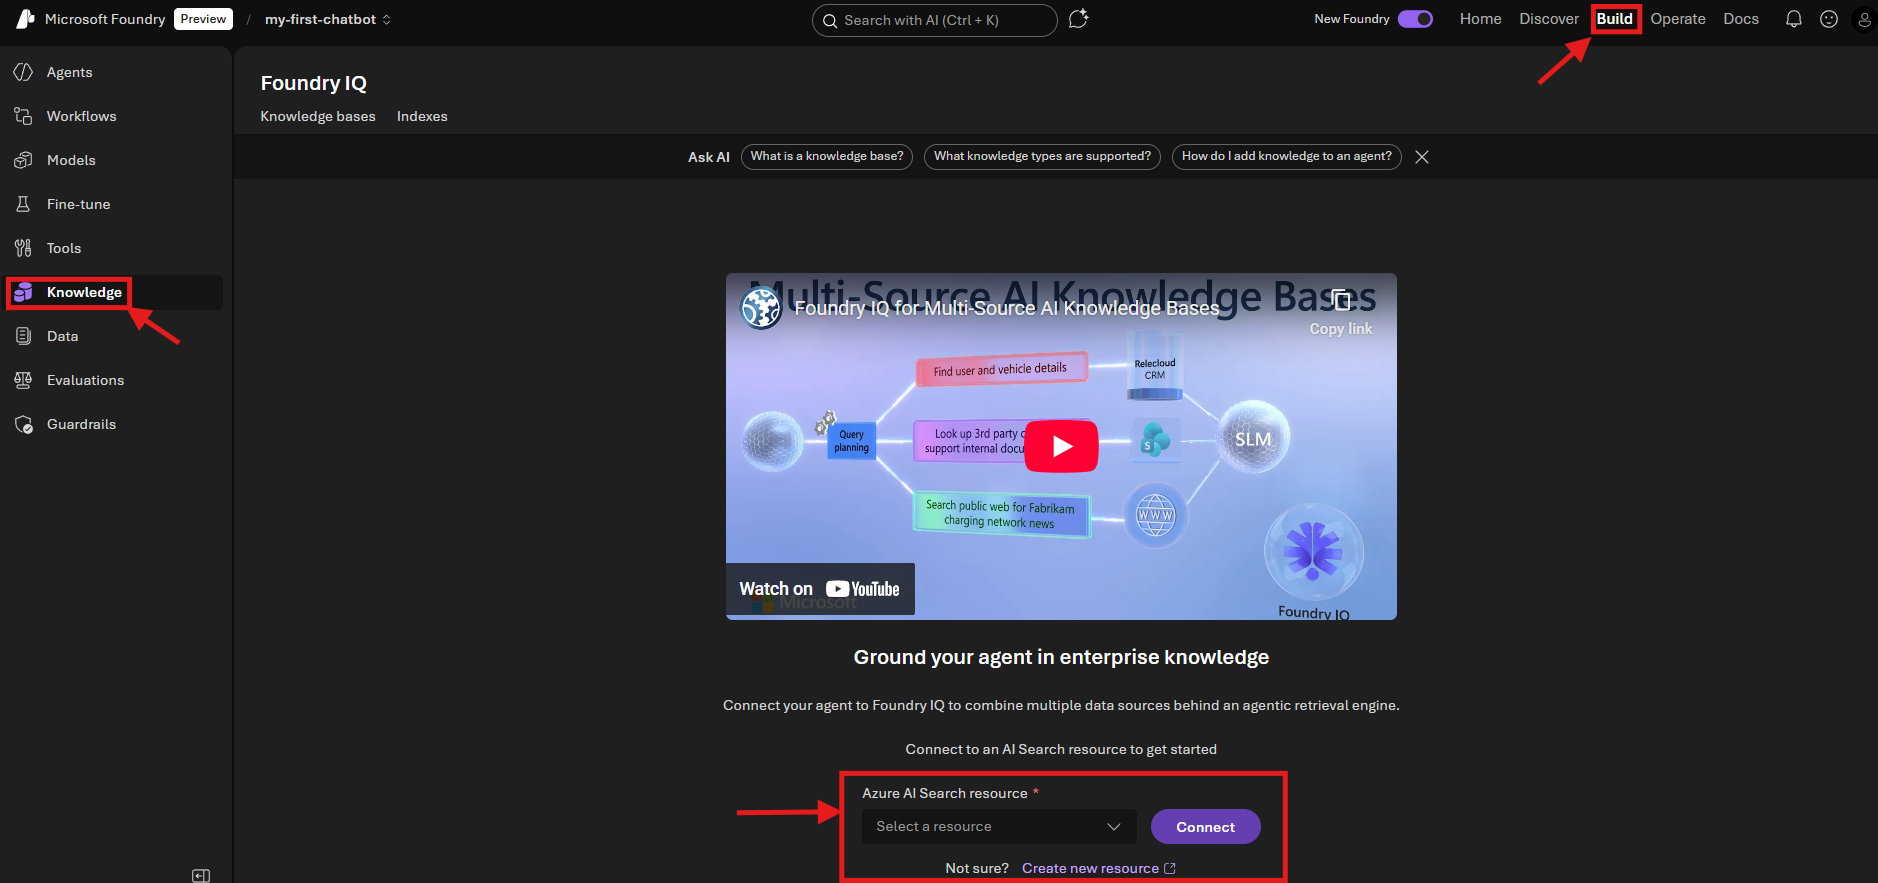
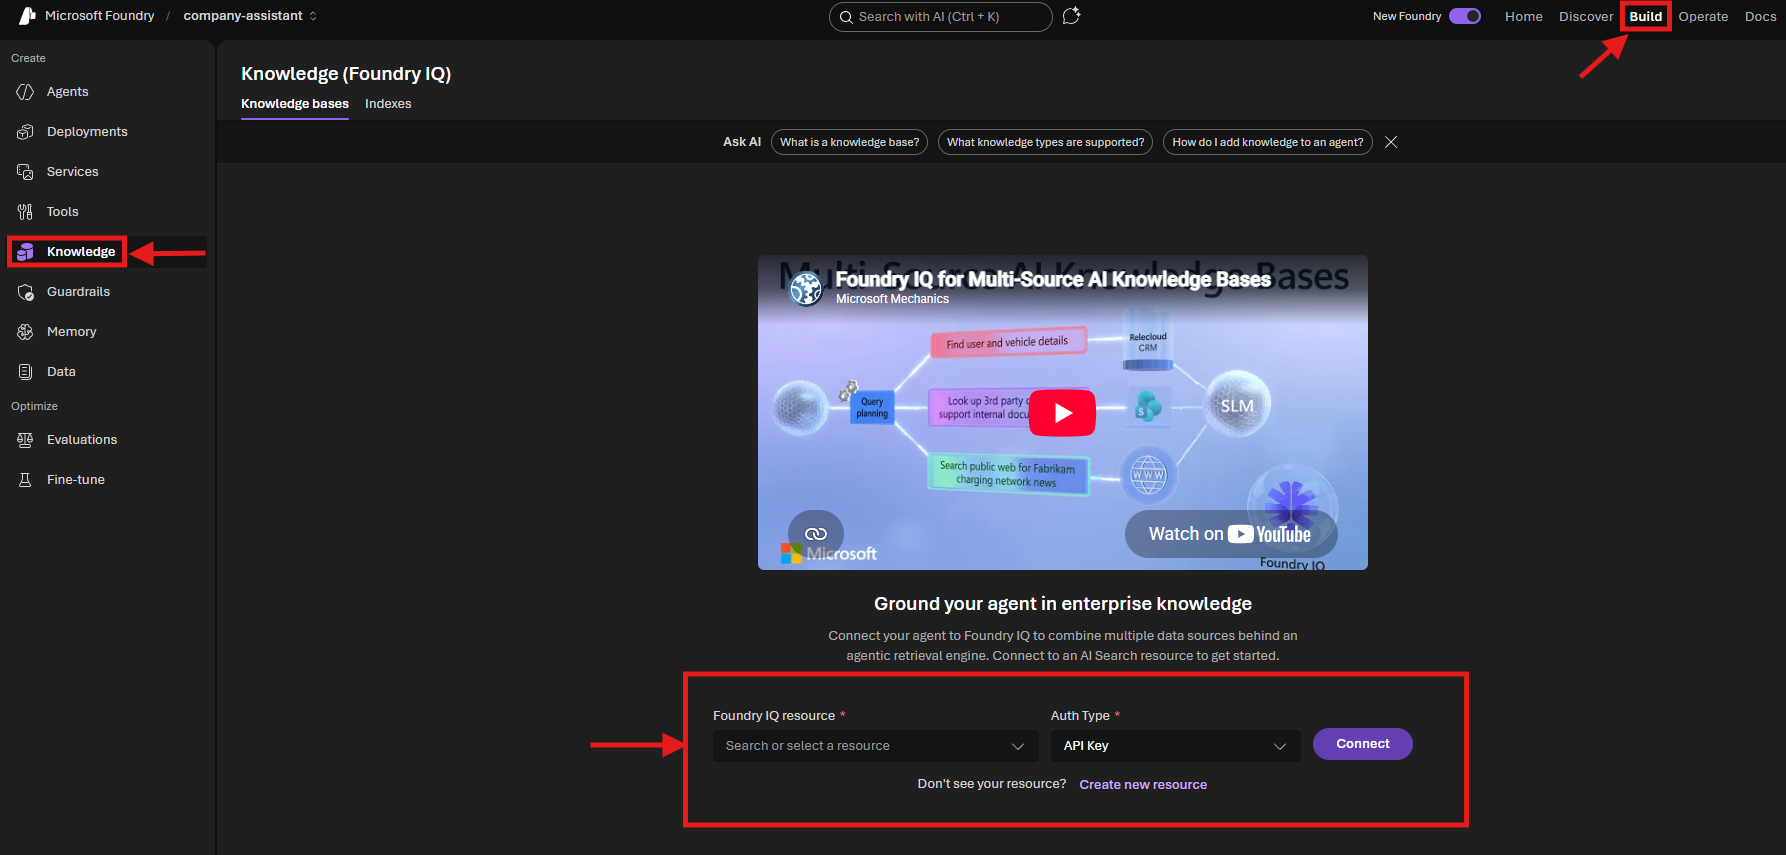
Update regions to East US, add pricing tier, clean up lab-2

diff --git a/lab-2-create-knowledge-base.md b/lab-2-create-knowledge-base.md
@@ -65,12 +65,14 @@ The first time you use Knowledge, you'll need to connect an AI Search resource:
 
 1. Click **Create new resource**
 2. In the dialog that appears:
-   - **Resource name**: Leave the auto-generated name (e.g., `company-assistant-srch-xxxxx`)
+   - **Resource name**: Leave the auto-generated name
    - **Subscription**: Select your subscription
    - **Resource group**: `rg-foundry-workshop-[yourname]`
-   - **Region**: Choose a region that has capacity (if you see a "region at capacity" warning, try another region like **West US 2** or **North Central US**)
+   - **Region**: Try selecting the same region as your Foundry resource (East US). If you see a "region at capacity" warning, select a different region that has availability (e.g., Sweden Central).
+   - **Pricing tier**: Basic
 3. Check the **acknowledgment checkbox** about additional costs
 4. Click **Create**
+![Create Foundry IQ resource page](./images/Foundry-IQ2.png)
 
 A "Setting up secure access" dialog will appear, showing that Foundry is granting the necessary RBAC roles (Search Service Contributor). Wait for it to complete.
 
